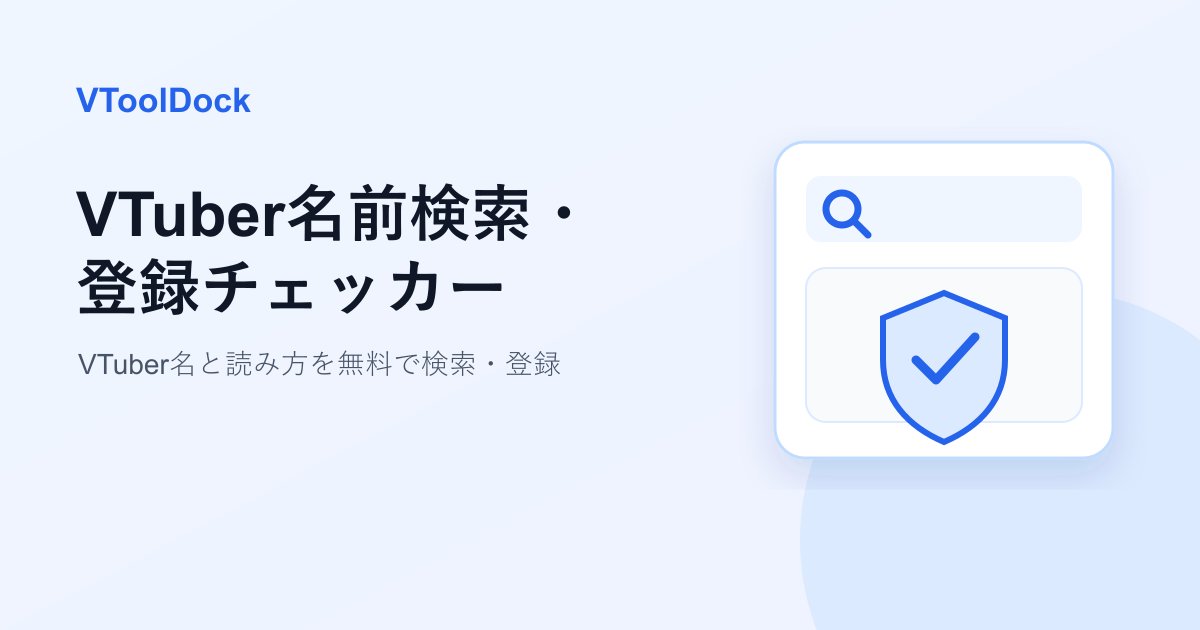
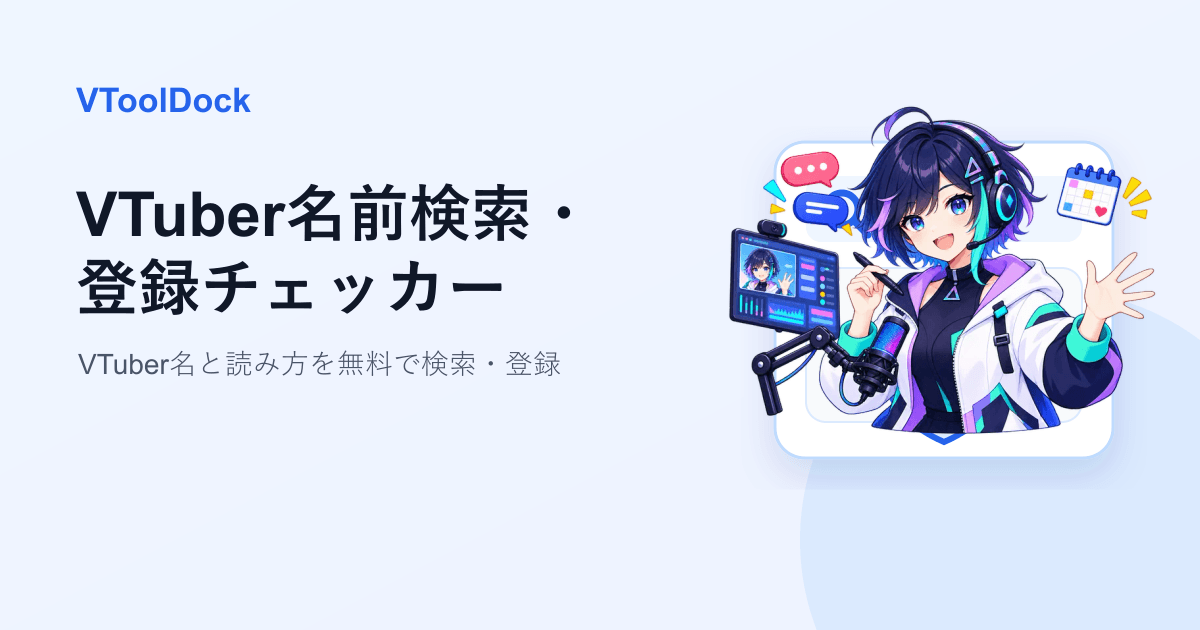
feat: add colorful VTuber visual identity

Changed region(s): [[0.5858, 0.1508, 0.9558, 0.6937]]

diff --git a/src/components/tools/VtuberNameChecker.tsx b/src/components/tools/VtuberNameChecker.tsx
@@ -8,7 +8,7 @@ interface Vtuber { id:number; name:string; reading:string; x_url:string|null; yo
 type SearchResult = { status:'found'; results:Vtuber[] } | { status:'not_found'; query:string } | { status:'hidden'; message:string };
 const siteKey=import.meta.env.PUBLIC_TURNSTILE_SITE_KEY || '0x4AAAAAAEqaUDPbuFzxFTAr';
 
-function StateIcon({type}:{type:'search'|'found'|'missing'|'hidden'|'complete'}){return <span className={`name-state-icon ${type}`} aria-hidden="true"><svg viewBox="0 0 24 24" fill="none" stroke="currentColor" strokeWidth="2" strokeLinecap="round" strokeLinejoin="round">{type==='search'&&<><circle cx="11" cy="11" r="7"/><path d="m20 20-4-4"/></>}{type==='found'&&<><path d="M12 3 5 6v5c0 4.6 2.8 8 7 10 4.2-2 7-5.4 7-10V6l-7-3Z"/><path d="m9 12 2 2 4-4"/></>}{type==='missing'&&<><path d="M4 7h6l2 2h8v10H4Z"/><path d="M12 12v5m-2.5-2.5h5"/></>}{type==='hidden'&&<><path d="M3 3l18 18"/><path d="M10.6 10.7a2 2 0 0 0 2.7 2.7"/><path d="M9.9 4.2A10.6 10.6 0 0 1 21 12a15 15 0 0 1-2.2 3.2M6.6 6.6A14.8 14.8 0 0 0 3 12a10.7 10.7 0 0 0 9 5 10 10 0 0 0 2.4-.3"/></>}{type==='complete'&&<><circle cx="12" cy="12" r="9"/><path d="m8 12 2.5 2.5L16 9"/><path d="M5 3 3 5m16-2 2 2M3 19l2 2m14 0 2-2"/></>}</svg></span>}
+function StateIcon({type}:{type:'search'|'found'|'missing'|'hidden'|'complete'|'error'}){return <span className={`name-state-icon ${type}`} aria-hidden="true"><svg viewBox="0 0 24 24" fill="none" stroke="currentColor" strokeWidth="2" strokeLinecap="round" strokeLinejoin="round">{type==='search'&&<><circle cx="11" cy="11" r="7"/><path d="m20 20-4-4"/></>}{type==='found'&&<><path d="M12 3 5 6v5c0 4.6 2.8 8 7 10 4.2-2 7-5.4 7-10V6l-7-3Z"/><path d="m9 12 2 2 4-4"/></>}{type==='missing'&&<><path d="M4 7h6l2 2h8v10H4Z"/><path d="M12 12v5m-2.5-2.5h5"/></>}{type==='hidden'&&<><path d="M3 3l18 18"/><path d="M10.6 10.7a2 2 0 0 0 2.7 2.7"/><path d="M9.9 4.2A10.6 10.6 0 0 1 21 12a15 15 0 0 1-2.2 3.2M6.6 6.6A14.8 14.8 0 0 0 3 12a10.7 10.7 0 0 0 9 5 10 10 0 0 0 2.4-.3"/></>}{type==='complete'&&<><circle cx="12" cy="12" r="9"/><path d="m8 12 2.5 2.5L16 9"/><path d="M5 3 3 5m16-2 2 2M3 19l2 2m14 0 2-2"/></>}{type==='error'&&<><path d="m12 3 10 18H2Z"/><path d="M12 9v5m0 3h.01"/></>}</svg></span>}
 
 function browserId(){let value=localStorage.getItem('tooldock-browser-id');if(!value){value=crypto.randomUUID();localStorage.setItem('tooldock-browser-id',value)}return value}
 async function api(url:string,options?:RequestInit){const response=await fetch(url,options);const data=await response.json();if(!response.ok)throw new Error(data.error||'処理に失敗しました。');return data}
@@ -19,4 +19,4 @@ function ShareCard({item}:{item:Vtuber}){const share=()=>{const text=`「${item.
 
 function ReportForm({item,onClose}:{item:Vtuber;onClose:()=>void}){const [token,setToken]=useState('');const [message,setMessage]=useState('');const submit=async(e:FormEvent<HTMLFormElement>)=>{e.preventDefault();setMessage('');const values=new FormData(e.currentTarget);try{await api(`/api/vtubers/${item.id}/reports`,{method:'POST',headers:{'Content-Type':'application/json'},body:JSON.stringify({reason:values.get('reason'),detail:values.get('detail'),turnstileToken:token,browserId:browserId()})});setMessage('通報を受け付けました。');trackToolUse('name-checker','report')}catch(error){setMessage(error instanceof Error?error.message:'通報に失敗しました。')}};return <form className="name-form report-form" onSubmit={submit}><h3>この名前を通報</h3><label>通報理由<select name="reason" required defaultValue=""><option value="" disabled>選択してください</option><option value="impersonation">本人ではない / なりすまし</option><option value="nonexistent">存在しないVTuber</option><option value="wrong_name">名前が間違っている</option><option value="wrong_reading">読み方が間違っている</option><option value="wrong_social">SNS URLが間違っている</option><option value="duplicate">重複登録</option><option value="inappropriate">不適切な内容</option><option value="other">その他</option></select></label><label>補足（任意）<textarea name="detail" maxLength={500} rows={3}/></label><Turnstile onToken={setToken}/>{message&&<p className="message" role="status">{message}</p>}<div className="button-row"><button className="button primary" disabled={!token}>通報する</button><button className="button" type="button" onClick={onClose}>閉じる</button></div></form>}
 
-export default function VtuberNameChecker(){const [nameQuery,setNameQuery]=useState('');const [readingQuery,setReadingQuery]=useState('');const [result,setResult]=useState<SearchResult|null>(null);const [loading,setLoading]=useState(false);const [registering,setRegistering]=useState(false);const [reporting,setReporting]=useState<Vtuber|null>(null);const [token,setToken]=useState('');const [message,setMessage]=useState('');const [registered,setRegistered]=useState(false);const search=async(name=nameQuery,reading=readingQuery)=>{if(!name.trim()&&!reading.trim()){setMessage('VTuber名または読み方を入力してください。');return}setLoading(true);setMessage('');setRegistered(false);try{const params=new URLSearchParams();if(name.trim())params.set('name',name);if(reading.trim())params.set('reading',reading);setResult(await api(`/api/vtubers/search?${params}`));trackToolUse('name-checker','search')}catch(error){setMessage(error instanceof Error?error.message:'検索に失敗しました。')}finally{setLoading(false)}};const register=async(e:FormEvent<HTMLFormElement>)=>{e.preventDefault();const values=new FormData(e.currentTarget);try{await api('/api/vtubers',{method:'POST',headers:{'Content-Type':'application/json'},body:JSON.stringify({name:values.get('name'),reading:values.get('reading'),xUrl:values.get('xUrl'),youtubeUrl:values.get('youtubeUrl'),twitchUrl:values.get('twitchUrl'),turnstileToken:token,browserId:browserId()})});trackToolUse('name-checker','register');setRegistering(false);await search(String(values.get('name')),String(values.get('reading')));setRegistered(true)}catch(error){setMessage(error instanceof Error?error.message:'登録に失敗しました。')}};return <div className="name-checker"><div className="name-search"><label htmlFor="vtuber-name-query">VTuber名・読み方を入力</label><div><input id="vtuber-name-query" aria-label="VTuber名" value={nameQuery} onChange={e=>setNameQuery(e.target.value)} onKeyDown={e=>{if(e.key==='Enter')void search()}} placeholder="例：玄海シャチク" maxLength={100}/><input aria-label="読み方" value={readingQuery} onChange={e=>setReadingQuery(e.target.value)} onKeyDown={e=>{if(e.key==='Enter')void search()}} placeholder="例：げんかいしゃちく" maxLength={100}/><button className="button primary" onClick={()=>search()} disabled={loading}>{loading?'検索中…':'検索'}</button></div></div>{!result&&!loading&&!message&&<div className="name-empty"><StateIcon type="search"/><div><strong>名前を検索してみましょう</strong><p>VTuber名と読み方は、片方だけでも検索できます。</p></div></div>}{loading&&<div className="name-empty"><StateIcon type="search"/><div><strong>検索しています</strong><p>登録データを確認中です。</p></div></div>}{registered&&<div className="name-status complete"><StateIcon type="complete"/><div><strong>登録が完了しました</strong><p>検索結果に新しい登録を表示しています。</p></div></div>}{message&&<p className="message error" role="alert">{message}</p>}{result?.status==='not_found'&&<div className="name-status not-found"><StateIcon type="missing"/><div><strong>まだ登録されていません</strong><p>検索した名前を新しく登録できます。</p><button className="button primary" onClick={()=>setRegistering(true)}>この名前を登録する</button></div></div>}{result?.status==='hidden'&&<div className="name-status hidden"><StateIcon type="hidden"/><div><strong>一時的に非表示です</strong><p>{result.message}</p></div></div>}{result?.status==='found'&&<div className="name-results">{result.results.map(item=><article className="name-result" key={item.id}><StateIcon type="found"/><span className="registered-label">登録されています</span><h2>{item.name}</h2><p className="reading">{item.reading}</p><dl><div><dt>登録番号</dt><dd>#{item.registration_number}</dd></div><div><dt>登録日時</dt><dd>{new Date(item.created_at+'Z').toLocaleDateString('ja-JP')}</dd></div></dl><div className="profile-links">{item.x_url&&<a href={item.x_url} target="_blank" rel="noopener noreferrer">X</a>}{item.youtube_url&&<a href={item.youtube_url} target="_blank" rel="noopener noreferrer">YouTube</a>}{item.twitch_url&&<a href={item.twitch_url} target="_blank" rel="noopener noreferrer">Twitch</a>}</div><ShareCard item={item}/><button className="text-button report-button" onClick={()=>setReporting(item)}>この名前を通報</button>{reporting?.id===item.id&&<ReportForm item={item} onClose={()=>setReporting(null)}/>}</article>)}</div>}{registering&&<form className="name-form" onSubmit={register}><h2>VTuber名を登録</h2><label>VTuber名（必須）<input name="name" required minLength={2} maxLength={80} defaultValue={nameQuery}/></label><label>読み仮名（必須）<input name="reading" required maxLength={100} defaultValue={readingQuery}/></label><label>X URL（任意）<input name="xUrl" type="url" placeholder="https://x.com/..."/></label><label>YouTube URL（任意）<input name="youtubeUrl" type="url" placeholder="https://www.youtube.com/@..."/></label><label>Twitch URL（任意）<input name="twitchUrl" type="url" placeholder="https://www.twitch.tv/..."/></label><Turnstile onToken={setToken}/><div className="button-row"><button className="button primary" disabled={!token}>自動チェックして登録</button><button className="button" type="button" onClick={()=>setRegistering(false)}>キャンセル</button></div></form>}<p className="service-note">本サービスは、他社・他団体が提供する「VTuber変換辞書」等とは関係のない、VToolDock独自のユーザー参加型サービスです。</p></div>}
+export default function VtuberNameChecker(){const [nameQuery,setNameQuery]=useState('');const [readingQuery,setReadingQuery]=useState('');const [result,setResult]=useState<SearchResult|null>(null);const [loading,setLoading]=useState(false);const [registering,setRegistering]=useState(false);const [reporting,setReporting]=useState<Vtuber|null>(null);const [token,setToken]=useState('');const [message,setMessage]=useState('');const [registered,setRegistered]=useState(false);const search=async(name=nameQuery,reading=readingQuery)=>{if(!name.trim()&&!reading.trim()){setMessage('VTuber名または読み方を入力してください。');return}setLoading(true);setMessage('');setRegistered(false);try{const params=new URLSearchParams();if(name.trim())params.set('name',name);if(reading.trim())params.set('reading',reading);setResult(await api(`/api/vtubers/search?${params}`));trackToolUse('name-checker','search')}catch(error){setMessage(error instanceof Error?error.message:'検索に失敗しました。')}finally{setLoading(false)}};const register=async(e:FormEvent<HTMLFormElement>)=>{e.preventDefault();const values=new FormData(e.currentTarget);try{await api('/api/vtubers',{method:'POST',headers:{'Content-Type':'application/json'},body:JSON.stringify({name:values.get('name'),reading:values.get('reading'),xUrl:values.get('xUrl'),youtubeUrl:values.get('youtubeUrl'),twitchUrl:values.get('twitchUrl'),turnstileToken:token,browserId:browserId()})});trackToolUse('name-checker','register');setRegistering(false);await search(String(values.get('name')),String(values.get('reading')));setRegistered(true)}catch(error){setMessage(error instanceof Error?error.message:'登録に失敗しました。')}};return <div className="name-checker"><div className="name-search"><label htmlFor="vtuber-name-query">VTuber名・読み方を入力</label><div><input id="vtuber-name-query" aria-label="VTuber名" value={nameQuery} onChange={e=>setNameQuery(e.target.value)} onKeyDown={e=>{if(e.key==='Enter')void search()}} placeholder="例：玄海シャチク" maxLength={100}/><input aria-label="読み方" value={readingQuery} onChange={e=>setReadingQuery(e.target.value)} onKeyDown={e=>{if(e.key==='Enter')void search()}} placeholder="例：げんかいしゃちく" maxLength={100}/><button className="button primary" onClick={()=>search()} disabled={loading}>{loading?'検索中…':'検索'}</button></div></div>{!result&&!loading&&!message&&<div className="name-empty"><StateIcon type="search"/><div><strong>名前を検索してみましょう</strong><p>VTuber名と読み方は、片方だけでも検索できます。</p></div></div>}{loading&&<div className="name-empty"><StateIcon type="search"/><div><strong>検索しています</strong><p>登録データを確認中です。</p></div></div>}{registered&&<div className="name-status complete"><StateIcon type="complete"/><div><strong>登録が完了しました</strong><p>検索結果に新しい登録を表示しています。</p></div></div>}{message&&<div className="name-status error-state" role="alert"><StateIcon type="error"/><div><strong>処理を完了できませんでした</strong><p>{message}</p></div></div>}{result?.status==='not_found'&&<div className="name-status not-found"><StateIcon type="missing"/><div><strong>まだ登録されていません</strong><p>検索した名前を新しく登録できます。</p><button className="button primary" onClick={()=>setRegistering(true)}>この名前を登録する</button></div></div>}{result?.status==='hidden'&&<div className="name-status hidden"><StateIcon type="hidden"/><div><strong>一時的に非表示です</strong><p>{result.message}</p></div></div>}{result?.status==='found'&&<div className="name-results">{result.results.map(item=><article className="name-result" key={item.id}><StateIcon type="found"/><span className="registered-label">登録されています</span><h2>{item.name}</h2><p className="reading">{item.reading}</p><dl><div><dt>登録番号</dt><dd>#{item.registration_number}</dd></div><div><dt>登録日時</dt><dd>{new Date(item.created_at+'Z').toLocaleDateString('ja-JP')}</dd></div></dl><div className="profile-links">{item.x_url&&<a href={item.x_url} target="_blank" rel="noopener noreferrer">X</a>}{item.youtube_url&&<a href={item.youtube_url} target="_blank" rel="noopener noreferrer">YouTube</a>}{item.twitch_url&&<a href={item.twitch_url} target="_blank" rel="noopener noreferrer">Twitch</a>}</div><ShareCard item={item}/><button className="text-button report-button" onClick={()=>setReporting(item)}>この名前を通報</button>{reporting?.id===item.id&&<ReportForm item={item} onClose={()=>setReporting(null)}/>}</article>)}</div>}{registering&&<form className="name-form" onSubmit={register}><h2>VTuber名を登録</h2><label>VTuber名（必須）<input name="name" required minLength={2} maxLength={80} defaultValue={nameQuery}/></label><label>読み仮名（必須）<input name="reading" required maxLength={100} defaultValue={readingQuery}/></label><label>X URL（任意）<input name="xUrl" type="url" placeholder="https://x.com/..."/></label><label>YouTube URL（任意）<input name="youtubeUrl" type="url" placeholder="https://www.youtube.com/@..."/></label><label>Twitch URL（任意）<input name="twitchUrl" type="url" placeholder="https://www.twitch.tv/..."/></label><Turnstile onToken={setToken}/><div className="button-row"><button className="button primary" disabled={!token}>自動チェックして登録</button><button className="button" type="button" onClick={()=>setRegistering(false)}>キャンセル</button></div></form>}<p className="service-note">本サービスは、他社・他団体が提供する「VTuber変換辞書」等とは関係のない、VToolDock独自のユーザー参加型サービスです。</p></div>}

diff --git a/src/styles/global.css b/src/styles/global.css
@@ -1,6 +1,6 @@
 :root { --ink:#101828; --muted:#667085; --line:#dfe5ed; --soft:#f5f7fa; --blue:#2563eb; --cyan:#06b6d4; --white:#fff; --radius:18px; font-family:Inter,"Noto Sans JP","Yu Gothic UI",sans-serif; color:var(--ink); background:#fff; font-synthesis:none; }
 * { box-sizing:border-box; }
-html { scroll-behavior:smooth; }
+html { scroll-behavior:smooth; overflow-x:clip; }
 body { margin:0; min-width:320px; font-size:16px; line-height:1.7; background:linear-gradient(180deg,#f7faff 0,#fff 420px); }
 a { color:inherit; text-decoration:none; }
 button,input,textarea,select { font:inherit; }
@@ -71,3 +71,19 @@ textarea,input,select { border:1px solid #cbd5e1; border-radius:10px; background
 .name-checker{display:flex;flex-direction:column;gap:22px}.name-search{padding:24px;border-radius:18px;background:linear-gradient(135deg,#eff6ff,#eef2ff)}.name-search>label{display:block;margin-bottom:10px;font-size:14px;font-weight:800;color:#1d4ed8}.name-search>div{display:grid;grid-template-columns:repeat(2,minmax(0,1fr)) auto;gap:10px}.name-search input{width:100%;min-width:0;padding:15px 16px;font-size:18px}.name-search .button{padding-inline:28px}.name-status{padding:25px;border:1px solid #cbd5e1;border-radius:16px}.name-status strong,.registered-label{font-weight:800;color:#2563eb}.name-status.not-found{background:#f8fafc}.name-status.hidden{background:#fff7ed;border-color:#fed7aa}.name-status.hidden strong{color:#c2410c}.name-results{display:grid;gap:16px}.name-result{padding:26px;border:1px solid #bfdbfe;border-radius:18px;background:#fff;box-shadow:0 16px 36px rgba(37,99,235,.07)}.name-result h2{margin:8px 0 0;font-size:32px}.name-result .reading{margin:0 0 20px;color:#667085}.name-result dl{display:grid;grid-template-columns:1fr 1fr;gap:10px;margin:0 0 18px}.name-result dl div{padding:12px;border-radius:10px;background:#f5f7fa}.name-result dt{font-size:12px;color:#667085}.name-result dd{margin:2px 0 0;font-weight:800}.profile-links{display:flex;flex-wrap:wrap;gap:8px;margin-bottom:18px}.profile-links a{padding:7px 12px;border:1px solid #bfdbfe;border-radius:999px;color:#1d4ed8;font-weight:700}.report-button{display:block;margin-top:16px;color:#667085}.name-form{display:grid;gap:14px;padding:24px;border:1px solid #cbd5e1;border-radius:16px;background:#fff}.name-form h2,.name-form h3{margin:0}.name-form label{display:flex;flex-direction:column;gap:5px;font-size:14px;font-weight:700}.name-form input,.name-form select,.name-form textarea{width:100%;padding:10px}.report-form{margin-top:18px;background:#f8fafc}.turnstile-box{min-height:65px}.service-note{margin:8px 0 0;padding:14px;border-left:3px solid #94a3b8;background:#f8fafc;color:#667085;font-size:13px}
 .name-empty,.name-status{display:flex;align-items:center;gap:16px}.name-empty{min-height:118px;padding:22px;border:1px dashed #bfdbfe;border-radius:16px;background:#f8fbff}.name-empty strong{color:#1d4ed8}.name-empty p,.name-status p{margin:2px 0 0;color:#667085}.name-state-icon{display:grid;place-items:center;flex:0 0 46px;width:46px;height:46px;border-radius:14px;background:#dbeafe;color:#2563eb}.name-state-icon svg{width:24px;height:24px}.name-state-icon.missing{background:#eef2ff;color:#4f46e5}.name-state-icon.hidden{background:#ffedd5;color:#c2410c}.name-state-icon.complete{background:#dcfce7;color:#15803d}.name-status.complete{background:#f0fdf4;border-color:#bbf7d0}.name-status.complete strong{color:#15803d}.name-result>.name-state-icon{float:left;margin:0 12px 4px 0}
 @media(max-width:560px){.name-search{padding:18px}.name-search>div{grid-template-columns:1fr}.name-search .button{width:100%}.name-result{padding:20px}.name-result h2{font-size:27px}.name-result dl{grid-template-columns:1fr}.name-result .button-row{flex-direction:column}.name-result .button{width:100%}}
+
+/* 配信者向けの明るさを加えるカラーレイヤー */
+:root{--purple:#7c3aed;--pink:#ec4899;--mint:#14b8a6;--yellow:#f59e0b}
+body{background:radial-gradient(circle at 8% 6%,rgba(34,211,238,.09),transparent 24%),radial-gradient(circle at 92% 13%,rgba(236,72,153,.08),transparent 22%),linear-gradient(180deg,#f8faff 0,#fff 560px)}
+.site-header{border-bottom-color:rgba(196,181,253,.38);box-shadow:0 5px 24px rgba(99,102,241,.04)}
+.brand-mark{background:linear-gradient(135deg,#2563eb 5%,#7c3aed 60%,#ec4899)}
+.primary-link,.button.primary{border-color:transparent;background:linear-gradient(110deg,#2563eb,#7c3aed 72%,#ec4899);box-shadow:0 9px 24px rgba(99,102,241,.2)}
+.primary-link:hover,.button.primary:hover{filter:saturate(1.1) brightness(1.04)}
+.streamer-hero{position:relative}.streamer-hero:before{content:"";position:absolute;z-index:-1;right:-9%;top:8%;width:48%;height:82%;border-radius:50%;background:radial-gradient(circle,rgba(196,181,253,.23),rgba(34,211,238,.08) 52%,transparent 72%)}
+.mascot-visual{position:relative;display:grid;place-items:center;min-height:390px}.mascot-visual:before{content:"";position:absolute;inset:8% 4%;z-index:-1;border:1px solid rgba(129,140,248,.2);border-radius:46% 54% 42% 58%;background:linear-gradient(145deg,rgba(219,234,254,.75),rgba(250,232,255,.72) 55%,rgba(204,251,241,.66));transform:rotate(-4deg)}.mascot-visual img{display:block;width:min(100%,560px);height:auto;filter:drop-shadow(0 22px 25px rgba(76,29,149,.14))}.mascot-live,.mascot-chip{position:absolute;z-index:2;border:1px solid rgba(196,181,253,.6);background:rgba(255,255,255,.9);box-shadow:0 10px 24px rgba(76,29,149,.12);backdrop-filter:blur(8px);font-weight:800}.mascot-live{top:10%;left:3%;display:flex;align-items:center;gap:7px;padding:7px 12px;border-radius:999px;color:#db2777;font-size:11px;letter-spacing:.1em}.mascot-live i{width:7px;height:7px;border-radius:50%;background:#fb7185;box-shadow:0 0 0 5px #ffe4e6}.mascot-chip{padding:7px 11px;border-radius:11px;font-size:11px}.chip-title{left:1%;bottom:20%;color:#7c3aed}.chip-obs{right:-2%;bottom:11%;color:#0891b2}.mascot-spark{position:absolute;right:4%;top:12%;color:#f59e0b;font-size:34px;filter:drop-shadow(0 4px 8px rgba(245,158,11,.2))}
+.featured-vtuber{position:relative;margin-block:24px;padding:52px;border:1px solid #ddd6fe;border-radius:28px;background:linear-gradient(135deg,rgba(239,246,255,.88),rgba(250,232,255,.52) 50%,rgba(236,253,245,.7));overflow:hidden}.featured-vtuber:after{content:"✦";position:absolute;right:28px;top:16px;color:#fbbf24;font-size:44px;opacity:.55}.new-section{margin-bottom:72px;padding:50px;border-radius:28px;background:linear-gradient(135deg,#f8fafc,#fdf2f8 52%,#ecfeff)}
+.tool-card{border-color:color-mix(in srgb,var(--accent) 15%,#dfe5ed);background:linear-gradient(145deg,#fff,color-mix(in srgb,var(--accent) 3%,white))}.tool-card:hover .tool-icon{transform:translateY(-2px) rotate(-2deg);box-shadow:0 10px 22px color-mix(in srgb,var(--accent) 18%,transparent)}.tool-icon{--icon-soft:#dbeafe;--icon-pop:#f9a8d4;--icon-warm:#fde68a;overflow:visible;border:1px solid color-mix(in srgb,var(--accent) 18%,white);background:linear-gradient(145deg,color-mix(in srgb,var(--accent) 11%,white),#fff);transition:transform .18s ease,box-shadow .18s ease}.tool-icon .mini-illustration{display:block;overflow:visible}.category-vtuber .tool-icon{--icon-soft:#e0e7ff;--icon-pop:#f9a8d4;--icon-warm:#67e8f9}.category-image .tool-icon{--icon-soft:#e0f2fe;--icon-pop:#fda4af;--icon-warm:#fde68a}.category-text .tool-icon{--icon-soft:#dbeafe;--icon-pop:#a7f3d0;--icon-warm:#fbcfe8}.category-development .tool-icon{--icon-soft:#e2e8f0;--icon-pop:#a5b4fc;--icon-warm:#67e8f9}.category-random .tool-icon{--icon-soft:#ede9fe;--icon-pop:#f9a8d4;--icon-warm:#fde68a}.tool-badge{border:0;background:linear-gradient(105deg,#ede9fe,#fce7f3);color:#7e22ce}.tool-card:nth-child(3n+2) .tool-badge{background:linear-gradient(105deg,#cffafe,#dcfce7);color:#0f766e}.tool-card:nth-child(3n) .tool-badge{background:linear-gradient(105deg,#fef3c7,#ffe4e6);color:#be123c}
+.vtuber-category .category-hero{min-height:390px;border:1px solid #ddd6fe;background:radial-gradient(circle at 85% 22%,rgba(251,191,36,.2),transparent 20%),linear-gradient(135deg,#eff6ff,#faf5ff 48%,#ecfeff);box-shadow:0 24px 60px rgba(99,102,241,.09)}.vtuber-category .category-hero:before{content:"";position:absolute;left:-40px;bottom:-58px;width:220px;height:120px;border-radius:50%;background:rgba(244,114,182,.1);transform:rotate(15deg)}.category-visual{right:16px;width:360px;height:330px;display:block;overflow:hidden}.category-visual img{position:absolute;right:-28px;bottom:-12px;width:360px;height:auto;filter:drop-shadow(0 18px 22px rgba(76,29,149,.14))}.category-visual>span{position:absolute;right:30px;top:18px;display:block;width:auto;height:auto;border:0;background:none;color:#f59e0b;font-size:32px;box-shadow:none}.vtuber-category>.section-block:nth-of-type(1){padding-inline:28px;border-radius:26px;background:linear-gradient(135deg,rgba(245,243,255,.72),rgba(255,255,255,.7))}.vtuber-category>.section-block:nth-of-type(3){padding-inline:28px;border-radius:26px;background:linear-gradient(135deg,rgba(236,254,255,.68),rgba(255,255,255,.76))}
+.name-search{border:1px solid #ddd6fe;background:linear-gradient(135deg,#eff6ff,#faf5ff 52%,#ecfeff)}.name-empty{border-color:#c4b5fd;background:linear-gradient(135deg,#f8fbff,#faf5ff)}.name-state-icon{position:relative;overflow:visible;border:1px solid rgba(129,140,248,.25);background:linear-gradient(145deg,#dbeafe,#ede9fe);box-shadow:0 8px 18px rgba(99,102,241,.1)}.name-state-icon:after{content:"✦";position:absolute;right:-5px;top:-10px;color:#f59e0b;font-size:14px}.name-state-icon.missing{background:linear-gradient(145deg,#ede9fe,#fce7f3)}.name-state-icon.hidden,.name-state-icon.error{background:linear-gradient(145deg,#ffedd5,#fee2e2);color:#c2410c}.name-state-icon.complete{background:linear-gradient(145deg,#dcfce7,#cffafe)}.name-status.complete{background:linear-gradient(135deg,#f0fdf4,#ecfeff)}.name-status.error-state{border-color:#fecaca;background:linear-gradient(135deg,#fff7ed,#fff1f2)}.name-status.error-state strong{color:#b42318}.name-result{border-color:#c4b5fd;background:linear-gradient(145deg,#fff,#faf5ff)}
+@media(max-width:800px){.mascot-visual{min-height:330px;max-width:600px;margin-inline:auto}.featured-vtuber,.new-section{padding:36px 24px}.category-visual{right:0;width:260px;height:270px}.category-visual img{width:285px}.vtuber-category .category-hero{padding-right:240px}.vtuber-category>.section-block:nth-of-type(1),.vtuber-category>.section-block:nth-of-type(3){padding-inline:18px}}
+@media(max-width:560px){.streamer-hero:before{width:100%;height:45%;right:0;top:auto;bottom:4%}.mascot-visual{min-height:280px}.mascot-visual img{width:100%}.mascot-live{top:5%;left:0}.mascot-chip{font-size:10px}.chip-title{left:0;bottom:15%}.chip-obs{right:0;bottom:8%}.featured-vtuber,.new-section{width:calc(100% - 28px);padding:30px 18px}.featured-vtuber:after{font-size:28px}.vtuber-category .category-hero{min-height:580px;padding:32px 22px 300px}.category-visual{left:50%;right:auto;bottom:0;width:320px;height:300px;transform:translateX(-50%)}.category-visual img{right:-8px;bottom:-8px;width:330px}.category-visual>span{right:18px;top:20px}.name-empty,.name-status{align-items:flex-start;padding:18px}.name-state-icon{flex-basis:40px;width:40px;height:40px}.name-state-icon svg{width:21px;height:21px}}
